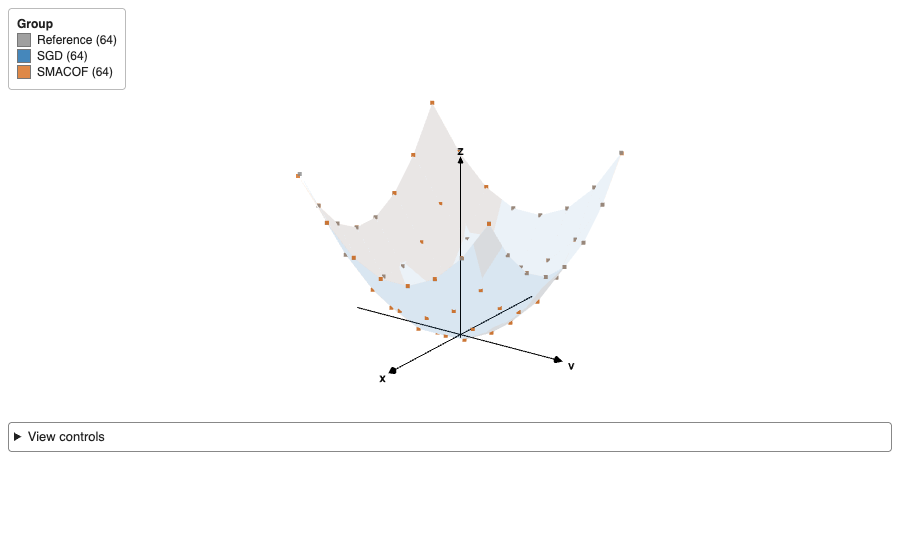
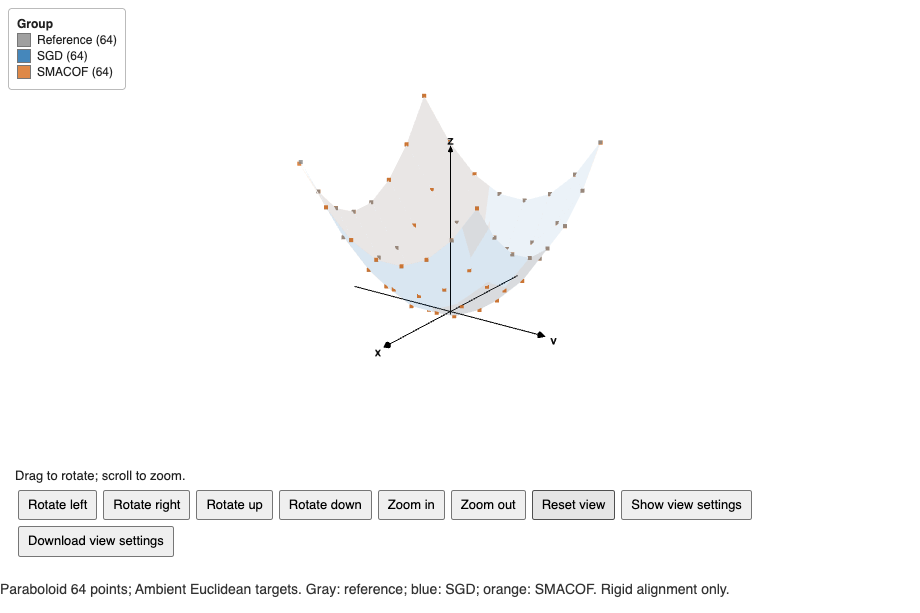
Keep vignette view controls visible below each figure

diff --git a/NEWS.md b/NEWS.md
@@ -21,6 +21,9 @@
 
 ## Documentation
 
+* Interactive vignette figures now show their controls continuously, without
+  a collapsible "View controls" panel.
+
 * Vignette legends now expand to fit their entries. Clarified the gallery
   Procrustes alignment and verified it with known transformations and the
   saved saddle layouts.
